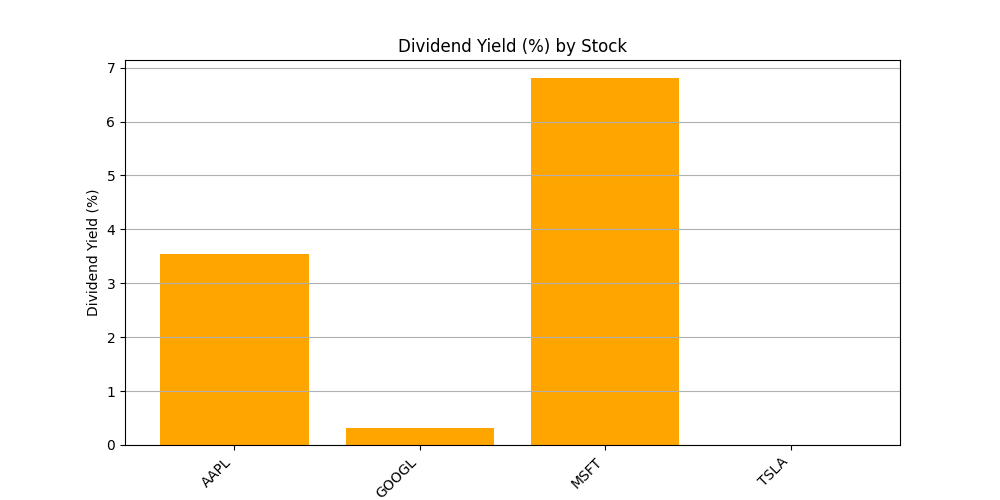
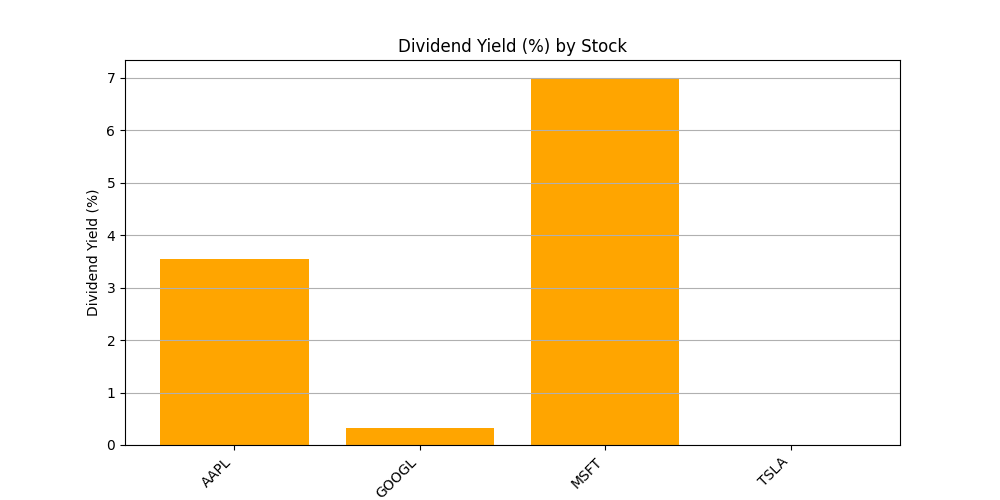
project

diff --git a/data_generator.py b/data_generator.py
@@ -2,12 +2,14 @@ import sqlite3
 import requests
 from datetime import datetime
 import yfinance as yf
+import time
 
 DB_NAME = "stock_data.db"
 
 MARKET_AUX_KEY = "la5KwzB2gLWX9Y8fKVsrAEYBEFEC6AnJyiUo7WLm"
 FINNHUB_KEY = "ctfne0pr01qi0nfdon4gctfne0pr01qi0nfdon50"
 OPENFIGI_KEY = "93bca677-feba-4a77-b7a2-b5a0894b822c"
+
 
 
 def setup_database():
@@ -76,6 +78,19 @@ def setup_database():
             UNIQUE(stock_id, published_date)
         )
     ''')
+    
+    cur.execute('''
+        CREATE TABLE IF NOT EXISTS DividendFrequency (
+            frequency_id INTEGER PRIMARY KEY AUTOINCREMENT,
+            stock_id INTEGER,
+            date TEXT,
+            frequency INTEGER,
+            dividend_type TEXT,
+            FOREIGN KEY(stock_id) REFERENCES Stocks(stock_id),
+            UNIQUE(stock_id, date)
+        )
+    ''')
+
 
     conn.commit()
     conn.close()
@@ -118,39 +133,86 @@ def fetch_stock_prices_yahoo(symbol, conn, max_rows=7):
         return []
 
 
-def fetch_dividends_yahoo(symbol, conn, max_rows=25):
-    """Fetch dividend history for a given symbol using Yahoo Finance."""
-    try:
-        stock = yf.Ticker(symbol)
-        dividends = stock.dividends
-        dividend_data = []
-        count = 0
 
-        for date, dividend in dividends.items():
-            date_str = date.strftime("%Y-%m-%d")
-            cur = conn.cursor()
-            cur.execute("""
-                SELECT 1 FROM Dividends WHERE date = ? AND stock_id = (
-                    SELECT stock_id FROM Stocks WHERE ticker = ?
-                )
-            """, (date_str, symbol))
-            if cur.fetchone():
+
+import time
+
+from bs4 import BeautifulSoup
+import requests
+
+
+import requests
+from bs4 import BeautifulSoup
+import sqlite3
+
+import requests
+import sqlite3
+
+def fetch_dividends_fmp(symbol, conn, max_rows=25):
+    """
+    Fetch dividend history for a given symbol from Financial Modeling Prep API.
+    Populates both Dividends and DividendFrequency tables.
+    """
+    base_url = f"https://financialmodelingprep.com/api/v3/historical-price-full/stock_dividend/{symbol}"
+    api_key = "6MwrkQYWb9lkTrkJSTm3budgQiAo2Or6"  # Replace with your valid API key
+    params = {"apikey": api_key}
+
+    try:
+        # Fetch data from the API
+        response = requests.get(base_url, params=params)
+        response.raise_for_status()
+        data = response.json()
+
+        # Extract the historical dividend data
+        historical_dividends = data.get("historical", [])
+        if not historical_dividends:
+            print(f"No dividend data found for {symbol}. Response: {data}")
+            return []
+
+        cur = conn.cursor()
+        cur.execute("SELECT stock_id FROM Stocks WHERE ticker = ?", (symbol,))
+        stock_id = cur.fetchone()[0]
+
+        count = 0
+        for record in historical_dividends:
+            # Extract relevant fields
+            date = record.get("date")
+            dividend = record.get("dividend")
+            frequency = record.get("frequency", 0)  # Frequency: 0 (one-time), 4 (quarterly), etc.
+            dividend_type = record.get("dividendType", "CD")  # Cash (CD) or Special Cash (SC)
+
+            # Skip records with missing data
+            if not date or dividend is None:
                 continue
 
-            dividend_data.append({
-                "date": date_str,
-                "dividend": float(dividend)
-            })
+            # Insert into Dividends table
+            cur.execute("""
+                INSERT OR IGNORE INTO Dividends (stock_id, date, dividend)
+                VALUES (?, ?, ?)
+            """, (stock_id, date, dividend))
+
+            # Insert into DividendFrequency table
+            cur.execute("""
+                INSERT OR IGNORE INTO DividendFrequency (stock_id, date, frequency, dividend_type)
+                VALUES (?, ?, ?, ?)
+            """, (stock_id, date, frequency, dividend_type))
 
             count += 1
             if count >= max_rows:
                 break
 
-        print(f"Fetched {len(dividend_data)} dividend entries for {symbol}.")
-        return dividend_data
-    except Exception as e:
+        conn.commit()
+        print(f"Fetched and stored {count} dividend entries for {symbol}.")
+        return historical_dividends
+
+    except requests.exceptions.RequestException as e:
         print(f"Error fetching dividends for {symbol}: {e}")
         return []
+
+
+
+
+
 
 def fetch_insider_transactions_finnhub(symbol, conn, max_rows=7):
     """Fetch insider transaction data using Finnhub API."""
@@ -306,7 +368,7 @@ def main():
         print(f"Fetching data for {symbol}...")
 
         stock_prices = fetch_stock_prices_yahoo(symbol, conn)
-        dividends = fetch_dividends_yahoo(symbol, conn, max_rows)
+        dividends =   fetch_dividends_fmp(symbol, conn, max_rows)
         insider_transactions = fetch_insider_transactions_finnhub(symbol, conn)
         news_data = fetch_news_marketaux(symbol, conn)
 

diff --git a/visualiser.py b/visualiser.py
@@ -1,15 +1,22 @@
 import sqlite3
 import pandas as pd
 import matplotlib.pyplot as plt
+import sys
 
 DB_NAME = "stock_data.db"
+OUTPUT_FILE = "output_log.txt"
 
 def fetch_data_from_db():
     """Fetch all data from the SQLite database and return as pandas DataFrames."""
     conn = sqlite3.connect(DB_NAME)
+
     stocks = pd.read_sql_query("SELECT * FROM Stocks", conn)
     stock_prices = pd.read_sql_query("SELECT * FROM StockPrices", conn)
-    dividends = pd.read_sql_query("SELECT * FROM Dividends", conn)
+    dividends = pd.read_sql_query("""
+        SELECT d.*, df.frequency, df.dividend_type
+        FROM Dividends d
+        LEFT JOIN DividendFrequency df ON d.stock_id = df.stock_id AND d.date = df.date
+    """, conn)
     insider_transactions = pd.read_sql_query("SELECT * FROM InsiderTransactions", conn)
     news = pd.read_sql_query("SELECT * FROM News", conn)
 
@@ -99,32 +106,46 @@ def visualize_news_topics(news, stocks):
 
 
 def main():
+    # Redirect output to a file
+    sys.stdout = open(OUTPUT_FILE, "w")
+
     stocks, stock_prices, dividends, insider_transactions, news = fetch_data_from_db()
+
+    # Stock Price Summary
     price_summary = calculate_stock_price_summary(stock_prices, stocks)
     print("\nStock Price Summary:")
     print(price_summary)
     visualize_data(price_summary, "Stock Price Summary", "ticker", "avg_price", "Ticker", "Average Price", color="lightblue")
 
+    # Dividend Yield
     dividend_yield = calculate_dividend_yield(dividends, stock_prices, stocks)
     print("\nDividend Yield (including stocks with no dividends):")
     print(dividend_yield)
     visualize_data(dividend_yield, "Dividend Yield (%) by Stock", "ticker", "yield (%)", "Ticker", "Dividend Yield (%)", color="orange")
 
+    # Insider Transactions
     insider_summary = summarize_insider_transactions(insider_transactions, stocks)
     print("\nInsider Transactions Summary:")
     print(insider_summary)
     visualize_data(insider_summary, "Net Insider Transactions by Stock", "ticker", "change", "Ticker", "Net Change in Shares", color="purple")
 
+    # News Sentiment
     news_sentiment = calculate_news_sentiment(news, stocks)
     print("\nNews Sentiment Analysis:")
     print(news_sentiment)
     visualize_data(news_sentiment, "Average News Sentiment by Stock", "ticker", "sentiment", "Ticker", "Average Sentiment", color="green")
 
+    # News Topics
     print("\nVisualizing News Topics:")
     visualize_news_topics(news, stocks)
 
+    # Stock Prices Over Time
     print("\nVisualizing Stock Prices Over Time:")
     visualize_stock_prices(stock_prices, stocks)
+
+    # Reset output to default
+    sys.stdout.close()
+    sys.stdout = sys.__stdout__
 
 
 if __name__ == "__main__":
